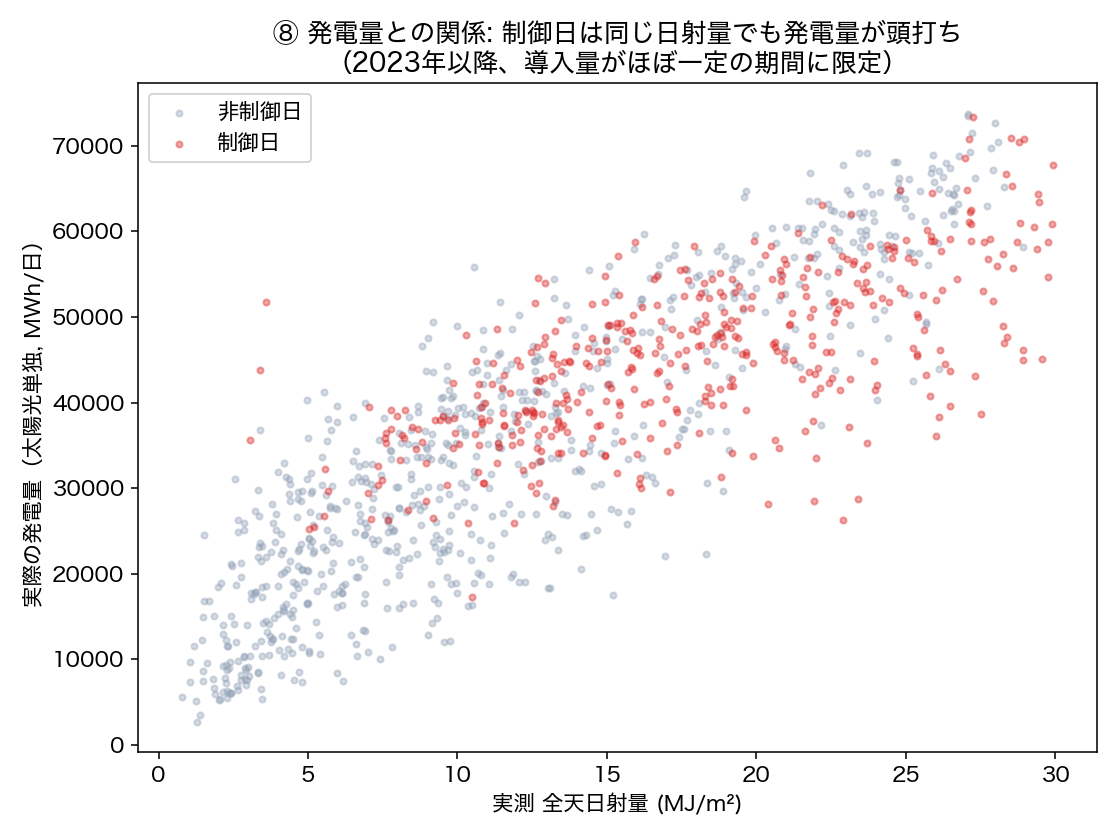
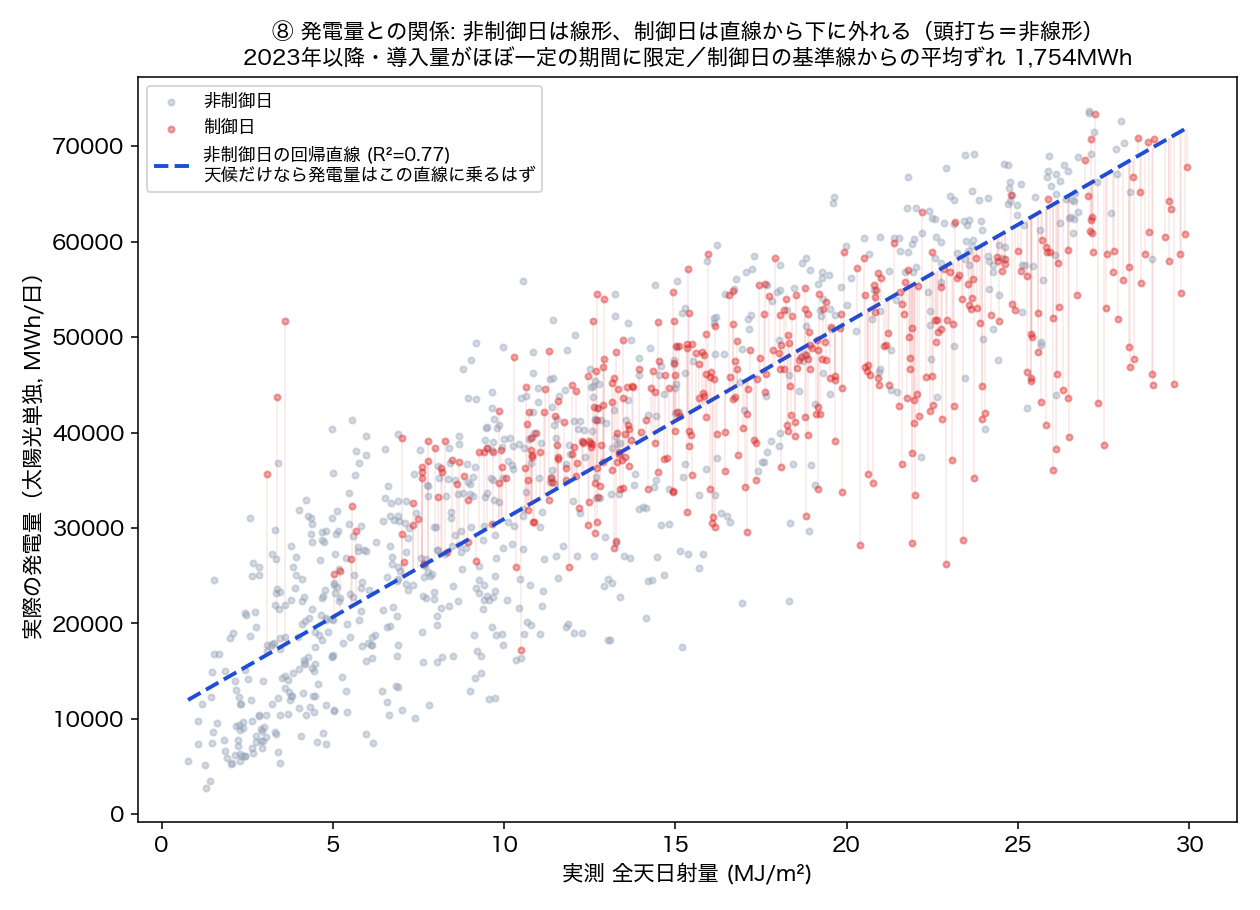
feat(id01): 発電量散布図に非制御日の回帰直線を追加し非線形性を可視化
非制御日のみで1次回帰直線を引き、制御日がその直線から下に外れる
(頭打ち=非線形)様子を直接見えるようにした。REPORT.md/README.mdの
説明も直線を根拠にした表現に修正。

diff --git a/experiments/id01_curtailment_compare/src/visualize_summary.py b/experiments/id01_curtailment_compare/src/visualize_summary.py
@@ -241,14 +241,32 @@ def fig08_generation_scatter():
     # 太陽光の導入量が年々増えているため、頭打ち効果を公平に見るには導入量がほぼ一定の
     # 直近期間に限定する（全期間だと「天気」ではなく「導入量の違う年の混在」になってしまう）
     gen = gen[gen["date"] >= "2023-01-01"]
-    fig, ax = plt.subplots(figsize=(8, 6))
-    for label, sub, color in [("非制御日", gen[gen["is_curtailed"] == 0], "#94a3b8"),
-                               ("制御日", gen[gen["is_curtailed"] == 1], "#dc2626")]:
-        ax.scatter(sub["solar_mj"], sub["solar_mwh"], s=10, alpha=0.4, color=color, label=label)
+    non_c = gen[gen["is_curtailed"] == 0]
+    curt = gen[gen["is_curtailed"] == 1]
+
+    # 非制御日だけで1次式を回帰（「晴れれば発電量も素直に伸びる」という線形の基準線）。
+    # 制御日がこの基準線からどれだけ下にずれるかで、頭打ち(非線形)を可視化する。
+    slope, intercept = np.polyfit(non_c["solar_mj"], non_c["solar_mwh"], 1)
+    r2 = np.corrcoef(non_c["solar_mj"], non_c["solar_mwh"])[0, 1] ** 2
+    x_line = np.array([gen["solar_mj"].min(), gen["solar_mj"].max()])
+
+    fig, ax = plt.subplots(figsize=(9, 6.5))
+    ax.scatter(non_c["solar_mj"], non_c["solar_mwh"], s=10, alpha=0.4, color="#94a3b8", label="非制御日")
+    ax.scatter(curt["solar_mj"], curt["solar_mwh"], s=10, alpha=0.4, color="#dc2626", label="制御日")
+    ax.plot(x_line, slope * x_line + intercept, color="#1d4ed8", lw=2, ls="--",
+            label=f"非制御日の回帰直線 (R²={r2:.2f})\n天候だけなら発電量はこの直線に乗るはず")
+
+    # 制御日の各点が、この基準線からどれだけ下にずれているか（頭打ち分）を薄く示す
+    curt_pred = slope * curt["solar_mj"] + intercept
+    below = curt_pred - curt["solar_mwh"]
+    ax.vlines(curt["solar_mj"], curt["solar_mwh"], curt_pred, color="#dc2626", alpha=0.08, lw=1)
+
     ax.set_xlabel("実測 全天日射量 (MJ/m²)")
     ax.set_ylabel("実際の発電量（太陽光単独, MWh/日）")
-    ax.set_title("⑧ 発電量との関係: 制御日は同じ日射量でも発電量が頭打ち\n（2023年以降、導入量がほぼ一定の期間に限定）")
-    ax.legend()
+    ax.set_title("⑧ 発電量との関係: 非制御日は線形、制御日は直線から下に外れる（頭打ち＝非線形）\n"
+                 f"2023年以降・導入量がほぼ一定の期間に限定／制御日の基準線からの平均ずれ {below.mean():,.0f}MWh",
+                 fontsize=11)
+    ax.legend(fontsize=9, loc="upper left")
     fig.tight_layout()
     fig.savefig(FIG_DIR / "08_generation_scatter.png", dpi=140)
     plt.close(fig)

diff --git a/experiments/id01_curtailment_compare/README.md b/experiments/id01_curtailment_compare/README.md
@@ -220,7 +220,7 @@ cd experiments/id01_curtailment_compare
 
 **発電量（連続量）との相関は全天日射量の方が日照時間より高い**。これは「追加検証」セクションの出力制御有無（二値）の判別力（日照時間の方が高い）と逆の結果。つまりユーザーが最初に指摘した「全天日射量の方が発電量との相関が良いはず」という直感は、**連続量の発電量を見るなら正しく、二値の出力制御判定を見るなら必ずしも正しくない**、という目的変数依存の結論になった。
 
-快晴/晴れ日で制御日と非制御日を比べると、**太陽光の導入量がほぼ一定の2023年以降に限定した場合**は実測日照時間がほぼ同じ（8.94h vs 8.38h）にもかかわらず発電量平均は46,614MWh vs 49,307MWhと明確に低く、**出力制御が実際に発電量を頭打ちにしている様子がデータで直接確認できた**。**ただし全期間（2018〜2026年）で単純比較すると、太陽光の導入量が年々大きく増えているため「制御日の方が発電量が多い」という逆転した結果になる**（導入量が違う年を混ぜて比較してしまうため）。期間を揃えることが重要という教訓。
+**非制御日だけで全天日射量と発電量の回帰直線を引くと線形の関係（R²=0.77）に乗るが、出力制御日はこの直線から下に外れる**（平均で直線より1,754MWh低い）という非線形な頭打ちが図から直接確認できる。快晴/晴れ日で制御日と非制御日を比べると、**太陽光の導入量がほぼ一定の2023年以降に限定した場合**は実測日照時間がほぼ同じ（8.94h vs 8.38h）にもかかわらず発電量平均は46,614MWh vs 49,307MWhと明確に低く、**出力制御が実際に発電量を頭打ちにしている様子がデータで直接確認できた**。**ただし全期間（2018〜2026年）で単純比較すると、太陽光の導入量が年々大きく増えているため「制御日の方が発電量が多い」という逆転した結果になる**（導入量が違う年を混ぜて比較してしまうため）。期間を揃えることが重要という教訓。
 
 詳細な図（散布図・バー比較）は [REPORT.md](REPORT.md) を参照。
 

diff --git a/experiments/id01_curtailment_compare/REPORT.md b/experiments/id01_curtailment_compare/REPORT.md
@@ -218,10 +218,14 @@ Claudeが生成したレポート（$0.0043/回）:
 
 ![発電量との散布図](results/figs/08_generation_scatter.png)
 
-全天日射量と発電量はほぼ線形の関係だが、**出力制御日（赤）は同じ日射量でも発電量が頭打ちになる**
-様子がはっきり見える（2023年以降・太陽光導入量がほぼ一定の期間に限定。快晴/晴れ日で比較すると、
-制御日の発電量平均46,614MWhに対し非制御日は49,307MWh、日照時間はほぼ同じ8.94h vs 8.38h）。
-出力制御の「供給過多を抑える」という目的がデータ上でも確認できた。
+**非制御日（灰）だけで回帰直線を引くと、全天日射量と発電量はほぼこの直線に乗る線形の関係**
+（R²=0.77）。これは「天候（日射量）だけで発電量が決まるなら、晴れれば晴れた分だけ素直に発電量が
+増える」という自然な関係。一方、**出力制御日（赤）はこの直線から下に外れる**点が多く、
+「同じ日射量でも発電量が頭打ちになる」という**非線形な頭打ち効果**が図から直接読み取れる
+（制御日の基準線からの平均ずれは1,754MWh）。2023年以降・太陽光導入量がほぼ一定の期間に限定して
+比較しており、快晴/晴れ日だけで比べると制御日の発電量平均46,614MWhに対し非制御日は49,307MWh、
+日照時間はほぼ同じ8.94h vs 8.38hだった。出力制御の「供給過多を抑える」という目的がデータ上でも
+確認できた。
 **全期間(2018-2026)で単純比較すると、太陽光の導入量が年々増えているため「制御日の方が発電量が多い」
 という逆転した結果になる**（導入量が違う年を混ぜて比較してしまうため）。期間を揃えることが重要。
 
